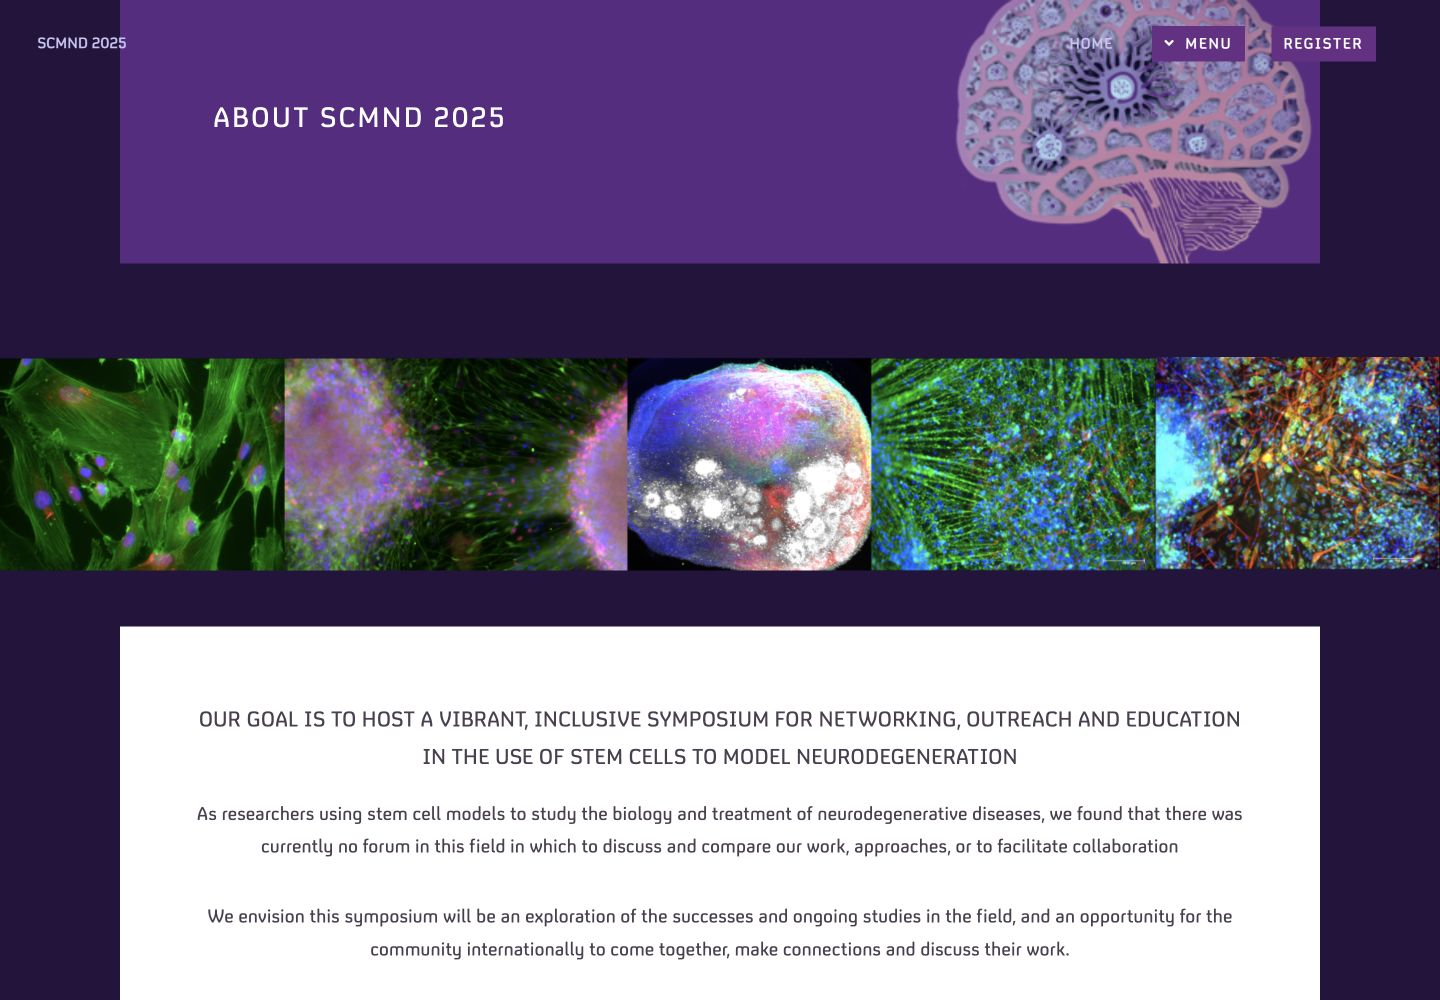
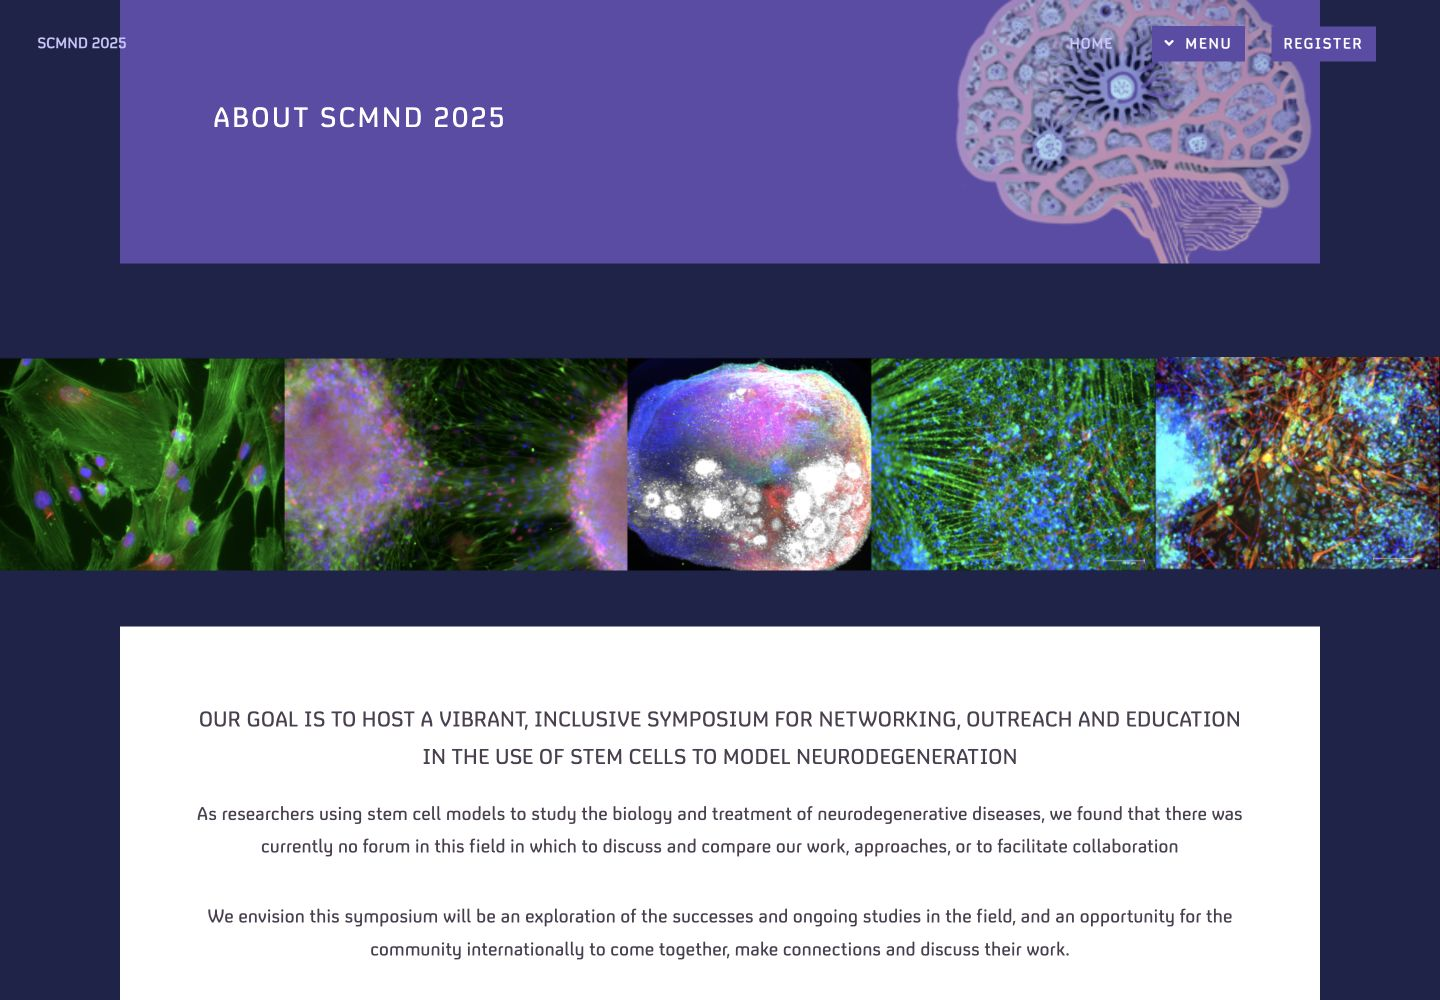
Promote Indigo Orchid color scheme

Changed region(s): [[0.0625, 0.0, 0.9688, 0.279]]

diff --git a/assets/css/main.css b/assets/css/main.css
@@ -17,12 +17,12 @@
   --lightFontColor: #f8f5fb;
   --darkFontColor: #4b3f50;
   --darkestFontColor: #281f2e;
-  --background: #24133d;
-  --linkText: #58d9e8;
-  --darkLinkText: #5f287e;
-  --linkHover: #ff9b7a;
-  --darkLinkHover: #9b2f68;
-  --titleBackground: rgba(90, 42, 131, 0.52);
+  --background: #1e234a;
+  --linkText: #67dceb;
+  --darkLinkText: #4c3e8a;
+  --linkHover: #ff9e7d;
+  --darkLinkHover: #6c3f8c;
+  --titleBackground: rgba(93, 75, 168, 0.52);
 }
 
 html,
@@ -311,13 +311,13 @@ sup {
 }
 
 hr {
-  border-top: solid 1px rgba(36, 19, 61, 0.2);
+  border-top: solid 1px rgba(30, 35, 74, 0.2);
   border: 0;
   margin-bottom: 1.5em;
 }
 
 blockquote {
-  border-left: solid 0.5em rgba(36, 19, 61, 0.2);
+  border-left: solid 0.5em rgba(30, 35, 74, 0.2);
   font-style: italic;
   padding: 1em 0 1em 2em;
 }
@@ -1930,7 +1930,7 @@ textarea {
   -ms-appearance: none;
   appearance: none;
   background: none;
-  border: solid 1px rgba(200, 196, 244, 0.28);
+  border: solid 1px rgba(201, 198, 255, 0.28);
   border-radius: 0;
   color: inherit;
   display: block;
@@ -1944,7 +1944,7 @@ input[type="text"]:focus,
 input[type="password"]:focus,
 input[type="email"]:focus,
 textarea:focus {
-  border-color: #58d9e8;
+  border-color: #67dceb;
 }
 
 input[type="text"],
@@ -2246,7 +2246,7 @@ table.default {
 }
 
 table.default tbody tr {
-  border-bottom: solid 1px rgba(95, 40, 126, 0.2);
+  border-bottom: solid 1px rgba(76, 62, 138, 0.2);
 }
 
 table.default td {
@@ -2260,7 +2260,7 @@ table.default th {
 }
 
 table.default thead {
-  background: #4e2b61;
+  background: #403a79;
   color: #fff;
 }
 
@@ -2305,7 +2305,7 @@ input[type="submit"]:hover,
 input[type="reset"]:hover,
 button:hover,
 .button:hover {
-  background: rgba(217, 91, 154, 0.14);
+  background: rgba(103, 220, 235, 0.12);
   border-color: inherit;
 }
 
@@ -2314,8 +2314,8 @@ input[type="submit"].primary,
 input[type="reset"].primary,
 button.primary,
 .button.primary {
-  background: #6a2d86;
-  border-color: #6a2d86;
+  background: #5d4ba8;
+  border-color: #5d4ba8;
   color: #fff !important;
 }
 
@@ -2324,8 +2324,8 @@ input[type="submit"].primary:hover,
 input[type="reset"].primary:hover,
 button.primary:hover,
 .button.primary:hover {
-  background: #b83e75 !important;
-  border-color: #b83e75 !important;
+  background: #8f4f9f !important;
+  border-color: #8f4f9f !important;
 }
 
 input[type="button"].fit,
@@ -2358,7 +2358,7 @@ button.small,
 }
 
 /* .wrapper.style2 {
-			background-color: #5a2a83;
+			background-color: #5d4ba8;
 			background-image: url("images/drismall.png"), url("images/brain2.png");
 			background-position: center left, center right;
 			background-repeat: no-repeat, no-repeat;
@@ -2367,7 +2367,7 @@ button.small,
 			text-align: center;
 		} */
 .wrapper.style2 {
-  background-color: #5a2a83;
+  background-color: #5d4ba8;
   background-image: url("images/brain2.png");
   background-position: center right;
   background-repeat: no-repeat;
@@ -2391,7 +2391,7 @@ button.small,
 .wrapper.style2 .button.primary {
   background: #fff;
   border-color: #fff;
-  color: #5a2a83 !important;
+  color: #5d4ba8 !important;
 }
 
 .wrapper.style2 input[type="button"].primary:hover,
@@ -2404,7 +2404,7 @@ button.small,
 }
 
 .wrapper.style3 {
-  background: #482365;
+  background: #34366f;
   color: inherit;
 }
 
@@ -2560,7 +2560,7 @@ button.small,
   -webkit-transition: all 0.2s ease-in-out;
   -ms-transition: all 0.2s ease-in-out;
   transition: all 0.2s ease-in-out;
-  background: rgba(106, 45, 134, 0.12);
+  background: rgba(93, 75, 168, 0.12);
 }
 
 #header nav ul li.current > a {
@@ -2581,7 +2581,7 @@ button.small,
   animation: none;
   background: transparent;
   box-shadow: none;
-  color: #c8c4f4;
+  color: #c9c6ff;
   padding: 2em 2.5em;
   position: absolute;
 }
@@ -2627,7 +2627,7 @@ button.small,
 }
 
 .dropotron > li {
-  border-top: solid 1px rgba(95, 40, 126, 0.18);
+  border-top: solid 1px rgba(76, 62, 138, 0.18);
   padding-left: 0;
 }
 
@@ -2643,7 +2643,7 @@ button.small,
 }
 
 .dropotron > li:hover > a {
-  background: #b83e75;
+  background: #8f4f9f;
   color: #fff;
 }
 
@@ -2695,9 +2695,9 @@ button.small,
 
 #banner {
   background-attachment: scroll, scroll, scroll, fixed;
-  background-color: #32174f;
+  background-color: #1e234a;
   background-image: url("images/"), url("images/"), url("images/"),
-    url("../../images/brain2-purple.png");
+    url("../../images/brain2-indigo.png");
   background-position: bottom left, bottom right, top left, top center;
   background-repeat: no-repeat, no-repeat, repeat, no-repeat;
   background-size: 25em, 25em, auto, cover;
@@ -2776,7 +2776,7 @@ button.small,
 }
 
 #main .sidebar section {
-  border-top: solid 1px rgba(95, 40, 126, 0.2);
+  border-top: solid 1px rgba(76, 62, 138, 0.2);
   margin: 3em 0 0 0;
   padding: 3em 0 0 0;
 }
@@ -2795,7 +2795,7 @@ body.index #main {
 
 #cta {
   background-attachment: scroll, scroll, scroll, fixed;
-  background-color: #32174f;
+  background-color: #34366f;
   background-image: url("images/light-tl.svg"), url("images/light-tr.svg"),
     url("images/overlay.png"), url("../../images/banner.jpg");
   background-position: top left, top right, top left, bottom center;
@@ -3115,7 +3115,7 @@ body.index #main {
   }
 
   #main .sidebar {
-    border-top: solid 1px rgba(200, 196, 244, 0.12);
+    border-top: solid 1px rgba(201, 198, 255, 0.12);
     padding-top: 3em;
   }
 
@@ -3212,7 +3212,7 @@ body.index #main {
   }
 
   #navButton .toggle:after {
-    background: rgba(106, 45, 134, 0.78);
+    background: rgba(93, 75, 168, 0.78);
     border-radius: 2px;
     content: "";
     height: 40px;
@@ -3243,7 +3243,7 @@ body.index #main {
     top: 0;
     width: 275px;
     z-index: 10002;
-    background: #1b1028;
+    background: #171a38;
     color: #fff;
     font-size: 0.8em;
     letter-spacing: 0.075em;

diff --git a/Agenda.html b/Agenda.html
@@ -117,13 +117,13 @@
 											.tg .tg-aags{background-color:#ECF4FA;border-color:#ecf4fa;color:#0070C0;font-family:inherit;font-size:100%;font-weight:bold;
 											  text-align:left;vertical-align:bottom}
 											.tg .tg-ij9q,.tg .tg-crvs,.tg .tg-c972,.tg .tg-7t66,.tg .tg-7t66b,.tg .tg-7t67,.tg .tg-j12b,.tg .tg-d0pe {
-											  background-color:#f3edf8;border-color:#f3edf8}
+											  background-color:#f0effa;border-color:#f0effa}
 											.tg .tg-dnn6,.tg .tg-jveb,.tg .tg-9f1v,.tg .tg-sui5,.tg .tg-aags {
-											  color:#5f287e}
+											  color:#4c3e8a}
 											.tg .tg-fxol,.tg .tg-qn4x,.tg .tg-vt66 {
-											  background-color:#4e2b61;border-color:#4e2b61;color:#fff}
+											  background-color:#403a79;border-color:#403a79;color:#fff}
 											</style>
-											<table class="tg" style="border:1px solid #4e2b61;margin-left:auto;margin-right:auto;"><colgroup>
+											<table class="tg" style="border:1px solid #403a79;margin-left:auto;margin-right:auto;"><colgroup>
 											<col style="width: 140px">
 											<col style="width: 140px">
 											<col style="width: 320px">

diff --git a/assets/sass/libs/_vars.scss b/assets/sass/libs/_vars.scss
@@ -19,31 +19,31 @@
 
 // Palette.
 	$palette: (
-		bg:				#24133d,
+		bg:				#1e234a,
 		fg:				#f8f5fb,
-		border:			transparentize(#c8c4f4, 0.8),
+		border:			transparentize(#c9c6ff, 0.8),
 
 		header: (
 			bg:			#fff,
 			fg:			#4b3f50,
 			alt-bg:		transparent,
-			alt-fg:		#c8c4f4
+			alt-fg:		#c9c6ff
 		),
 
 		banner: (
-			bg:			#32174f,
+			bg:			#1e234a,
 			fg:			#fff,
-			inner-bg:	#5a2a83,
+			inner-bg:	#5d4ba8,
 			inner-fg:	#fff
 		),
 
 		footer: (
-			bg:			#24133d,
+			bg:			#1e234a,
 			fg:			#f8f5fb
 		),
 
 		one: (
-			bg:			#5a2a83,
+			bg:			#5d4ba8,
 			fg:			#fff
 		),
 
@@ -53,17 +53,17 @@
 		),
 
 		three: (
-			bg:			#482365,
+			bg:			#34366f,
 			fg:			#fff
 		),
 
 		navPanel: (
-			bg:			#1b1028,
+			bg:			#171a38,
 			fg:			#fff
 		),
 
 		navButton: (
-			bg:			rgba(106,45,134,0.78),
+			bg:			rgba(93,75,168,0.78),
 			fg:			#fff
 		),
 

diff --git a/docs/screenshots/color-options/README.md b/docs/screenshots/color-options/README.md
@@ -1,10 +1,10 @@
 # Color scheme options
 
 Each option is shown at a matched 1440 × 1000 viewport using only the homepage,
-homepage footer, and Agenda. The approved deep-purple scheme is included as the
-control.
+homepage footer, and Agenda. The previous deep-purple scheme is included as
+the control.
 
-## Current: Deep Purple
+## Previous control: Deep Purple
 
 Balanced aubergine with cyan, coral, and lavender accents.
 
@@ -12,9 +12,9 @@ Balanced aubergine with cyan, coral, and lavender accents.
 
 | Homepage | Homepage footer | Agenda |
 | --- | --- | --- |
-| ![Current deep-purple homepage](../color-scheme/home-after.jpg) | ![Current deep-purple homepage footer](../color-scheme/home-footer-after.jpg) | ![Current deep-purple Agenda](../color-scheme/agenda-after.jpg) |
+| ![Deep-purple homepage](deep-purple-home.jpg) | ![Deep-purple homepage footer](deep-purple-footer.jpg) | ![Deep-purple Agenda](deep-purple-agenda.jpg) |
 
-## Option A: Indigo Orchid
+## Selected primary: Indigo Orchid
 
 Cooler and more institutional, with a stronger blue-violet foundation.
 

diff --git a/docs/screenshots/color-scheme/README.md b/docs/screenshots/color-scheme/README.md
@@ -1,4 +1,4 @@
-# Deep purple color scheme
+# Indigo Orchid color scheme
 
 Matched screenshots were captured at a 1440 × 1000 viewport. The homepage
 captures were taken after its animated title overlay had fully appeared.
@@ -83,10 +83,10 @@ captures were taken after its animated title overlay had fully appeared.
 
 ## Core palette
 
-- Midnight aubergine: `#24133d`
-- Feature purple: `#5a2a83`
-- Deep panel purple: `#482365`
-- Cyan accent: `#58d9e8`
-- Apricot accent: `#ff9b7a`
-- Raspberry accent: `#b83e75`
-- Pale lavender: `#c8c4f4`
+- Deep indigo: `#1e234a`
+- Orchid feature: `#5d4ba8`
+- Indigo panel: `#34366f`
+- Cyan accent: `#67dceb`
+- Apricot accent: `#ff9e7d`
+- Orchid hover: `#8f4f9f`
+- Pale periwinkle: `#c9c6ff`
